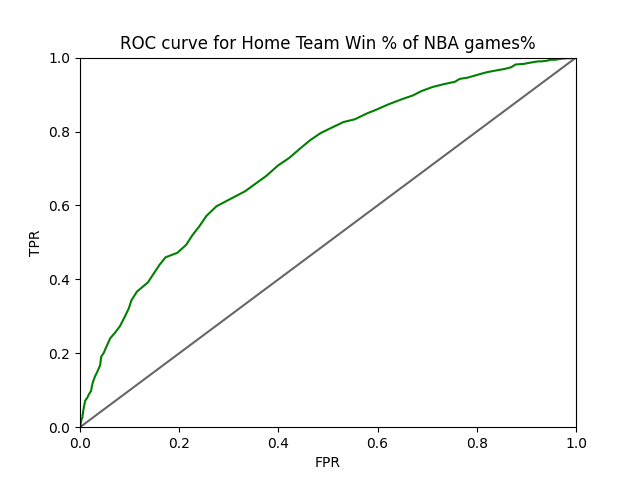
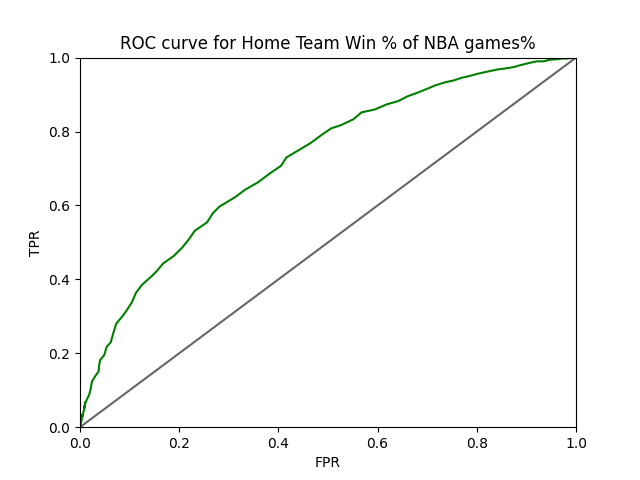
confirmed new model is 2020 -100 1, finished some final TODOs

diff --git a/app/server/Models.py b/app/server/Models.py
@@ -171,7 +171,7 @@ HOME_HOME_STREAK_3.set_degree(3)
 HOME_HOME_LAST10_W = Term([], ["HOME_home_last10_w"], [])
 HOME_HOME_LAST10_L = Term([], ["HOME_home_last10_l"], [])
 
-# dunno how these fit in (yet)
+# home terms dependent on who won the game
 HOME_WIN_POINTS_FOR_PER_GAME = Term([], ["HOME_win_points_for"], ["HOME_wins"])
 HOME_WIN_POINTS_AGAINST_PER_GAME = Term([], ["HOME_win_points_against"], ["HOME_wins"])
 HOME_LOSS_POINTS_FOR_PER_GAME = Term([], ["HOME_loss_points_for"], ["HOME_losses"])
@@ -223,7 +223,7 @@ AWAY_AWAY_STREAK_3.set_degree(3)
 AWAY_AWAY_LAST10_W = Term([], ["AWAY_away_last10_w"], [])
 AWAY_AWAY_LAST10_L = Term([], ["AWAY_away_last10_l"], [])
 
-# dunno how these fit in (yet)
+# away terms dependent on who won
 AWAY_WIN_POINTS_FOR_PER_GAME = Term([], ["AWAY_win_points_for"], ["AWAY_wins"])
 AWAY_WIN_POINTS_AGAINST_PER_GAME = Term([], ["AWAY_win_points_against"], ["AWAY_wins"])
 AWAY_LOSS_POINTS_FOR_PER_GAME = Term([], ["AWAY_loss_points_for"], ["AWAY_losses"])

diff --git a/README.md b/README.md
@@ -12,8 +12,12 @@ To use the Kaggle API, sign up for a Kaggle account at https://www.kaggle.com. T
 3) Follow the prompts after the program downloads the newest NBA data and updates the model(s) to enter the odds for every game (only moneyline supported for now)
 4) Double check the odds sheet and press enter, as prompted
 5) Enter the total bankroll/daily outlay you wish to use, when prompted
-6) The program will print a list of suggested bets and some supporting data. If no profitable bets were found, the program will output `"NO BETS RECOMMENDED TODAY"` in red bold. Otherwise, simply place the recommended bets and best of luck!
+6) The program will print a list of suggested bets and some supporting data. If no profitable bets were found, the program will output `NO BETS RECOMMENDED TODAY` in red bold. Otherwise, simply place the recommended bets and best of luck!
 7) https://www.oddsshopper.com/tools/betting-calculators/odds can be used to convert kalshi prices to american odds, if needed while using the web interface.
+
+For now, use DraftKings or a traditional sportsbook as the primary venue. It allows only having to run the code once and get bets accepted at the price laid out for you. If you live somewhere where only prediction markets are legal, then be wary that the code currently doesn't support calculating orders/contracts available. You'll have to run the code multiple times to get a good converged estimate for how much to optimally bet for each game and on what.
+
+https://www.actionnetwork.com/betting-calculators/betting-odds-calculator <- This site converts all odds type, BASKETBOI takes american odds as an integer input. Kalshi currently needs to use decimal odds.
 
 *Please remember that gambling of any kind should be done at your own risk, this tool is not proven to offer accurate predictions or sound financial advice. Call 1-800-GAMBLER if you or someone you know struggles with gambling addiction*
 
@@ -40,5 +44,4 @@ In order to properly calibrate the model before each season start (and possibly 
     - `python app/server/basketboi_server.py` (both from cli and uvicorn, in concert with `python app/client/basketboi_client.py`)
 
 #### TODO must make minor tweaks and tag release before 10/20/2026, and get an MVP before the start of this season. This could be
-- (high) finalize, for once and for all, with the term by term comparisons (with historical weighting considered...)
-- (med) accept both Kalshi price in CLI, along with American odds (configurable?) or decide if you'll just full send DraftKings instead
+- (low) run all years for homeWin, make sure more data is not more better with this new model
